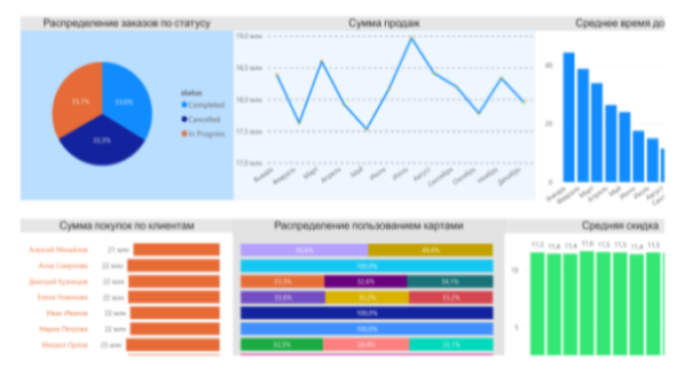
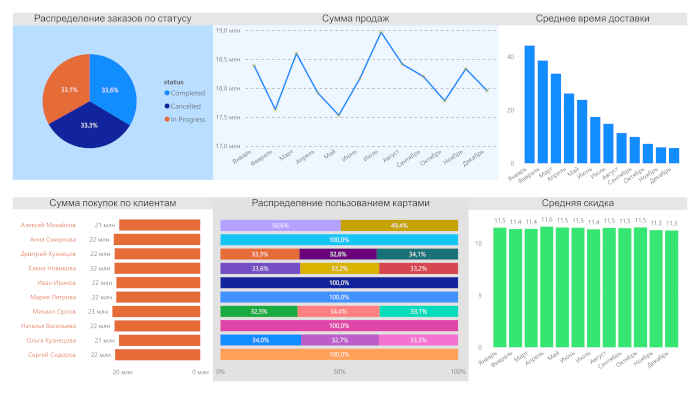
Сделал масштабирование рисунка через GIMP

diff --git a/SQL_database/README.md b/SQL_database/README.md
@@ -79,7 +79,7 @@
 
 ## 📈 Выполненный анализ (Power BI)
 
-![alt text](image-1.png)
+![alt text](image-2.png)
 
 - Динамика продаж по месяцам
 - Сумма заказов по клиентам
